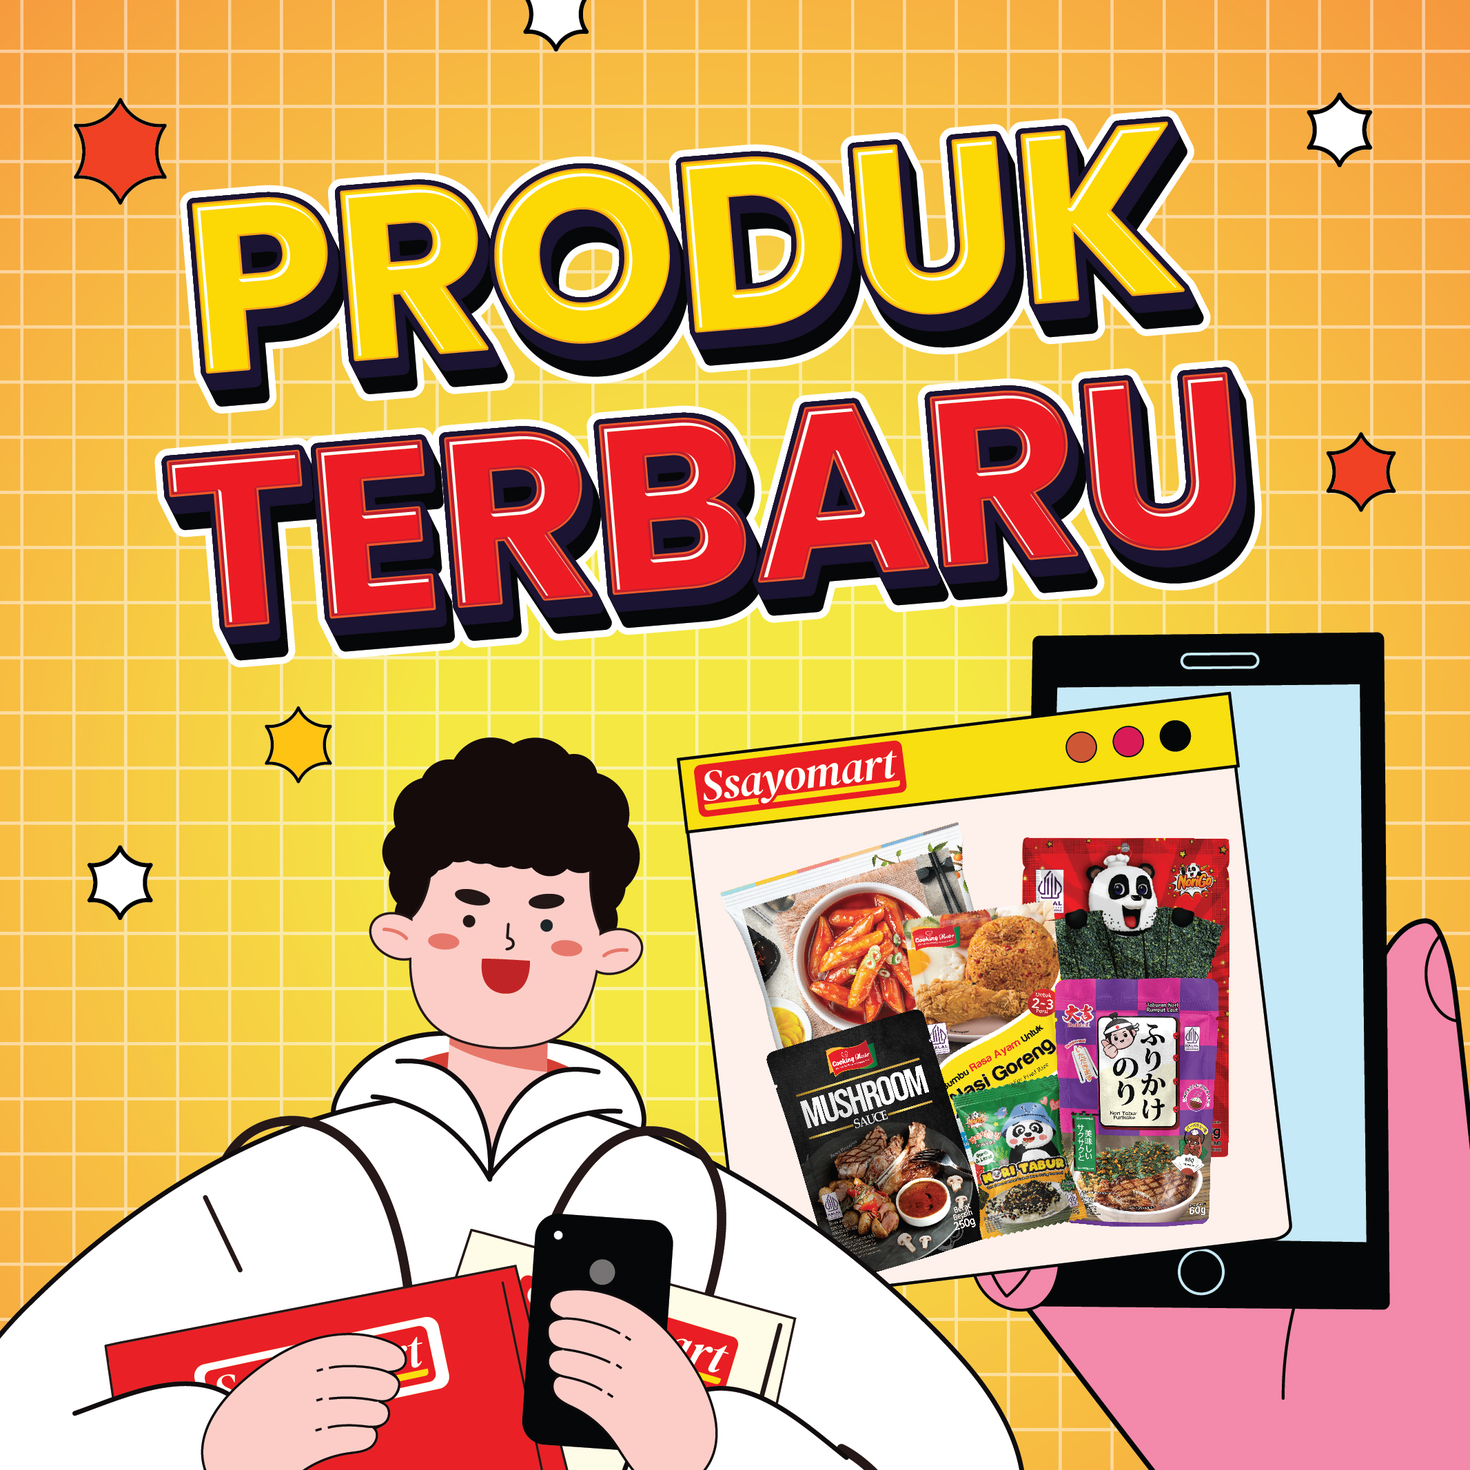
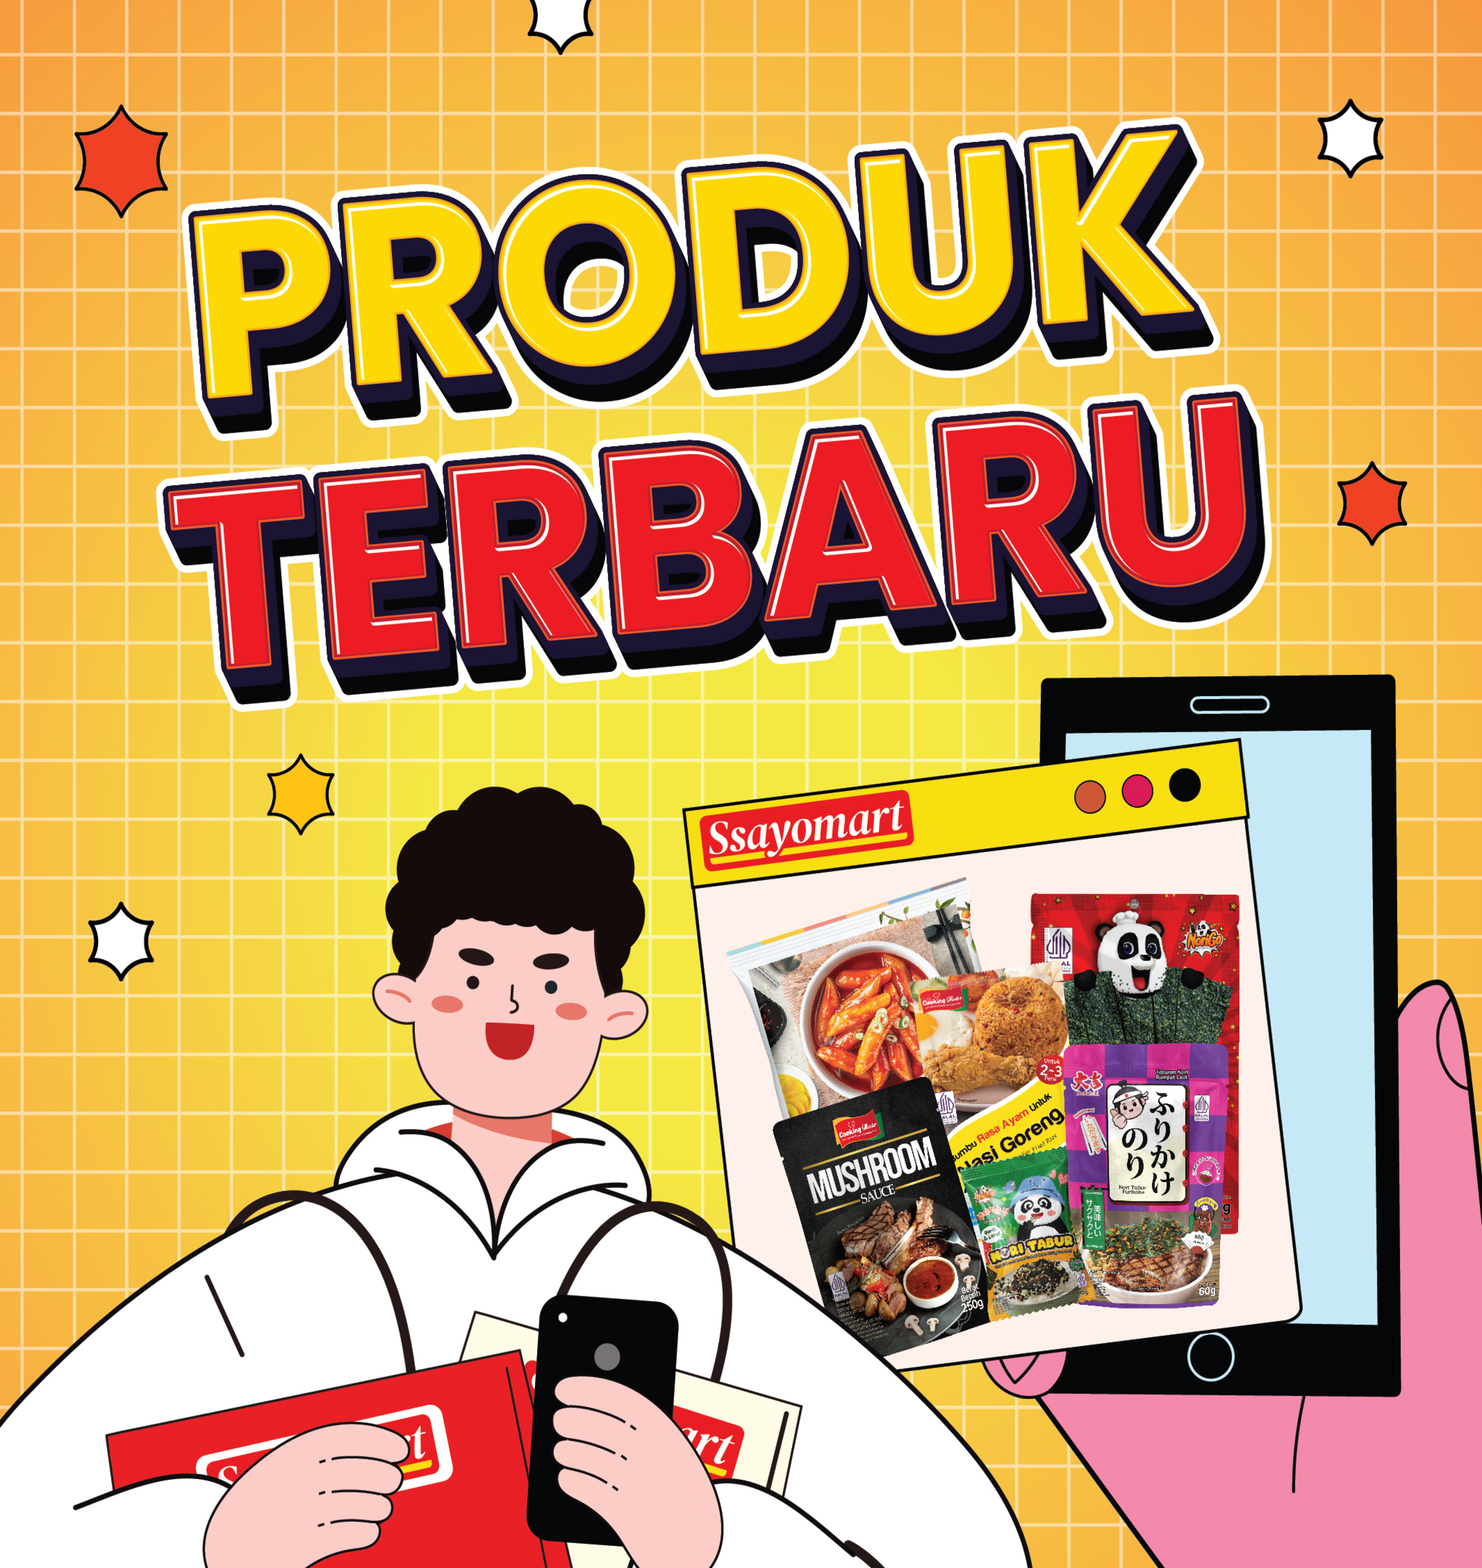
update baner spesial sayo ,tmbh produk,diskon deks

diff --git a/app/Views/dashboard/produk/tambahProduk.php b/app/Views/dashboard/produk/tambahProduk.php
@@ -8,195 +8,81 @@
     <b>MOHON TELITI KETIKA MENGISI PRODUK UNTUK MENGHINDARI KESALAHAN YANG TIDAK DIINGINKAN!!</b>
 </div>
 
-<div class="row">
-    <!-- Left Panel -->
-    <div class="col-md-6">
-        <div class="card border-0 shadow-sm position-relative">
-            <div class="card-header border-0 py-3">
-                <h6 class="m-0 font-weight-medium">Masukan Produk Baru</h6>
-            </div>
-            <div class="card-body">
-                <!-- code -->
-                <form action="<?= base_url(); ?>dashboard/produk/tambah-produk/save" onsubmit="return validasiTambahProduk()" method="post" enctype="multipart/form-data">
-                    <?= csrf_field(); ?>
-                    <div class="mb-3">
-                        <label for="nama" class="form-label">Nama Produk</label>
-                        <input type="text" class="form-control" id="nama" name="nama" placeholder="Nama Produk Anda..." value="<?= old('nama') ?>">
-                        <span id="produkError" class="text-danger"></span>
-                    </div>
-                    <div class="mb-3">
-                        <label for="sku" class="form-label">Stock Keeping Unit (SKU)</label>
-                        <input type="text" class="form-control" id="sku" name="sku" placeholder="SKU Produk Anda..." value="<?= old('sku') ?>" onkeypress="return isNumber(event);">
-                        <span id="skuError" class="text-danger"></span>
-                    </div>
-                    <div class="mb-3">
-                        <label for="deskripsi">Deskripsi Produk</label>
-                        <textarea class="form-control" id="deskripsi" name="deskripsi" placeholder="Deskripsi Produk Anda .." value="<?= old('deskripsi') ?>"></textarea>
-                        <span id="deskripsiError" class="text-danger"></span>
-                    </div>
-                    <div class="mb-3">
-                        <label for="parent_kategori_id">Kategori Induk</label>
-                        <select class="form-control" id="kategori" name="parent_kategori_id">
-                            <option value="">Pilih Kategori</option>
-                            <?php foreach ($kategori as $km) : ?>
-                                <option value="<?= $km['id_kategori']; ?>"><?= $km['nama_kategori']; ?></option>
-                            <?php endforeach; ?>
-                        </select>
-                        <span id="kategoriError" class="text-danger"></span>
-                    </div>
-                    <div class="mb-3">
-                        <label for="parent_kategori_id">Sub Kategori</label>
-                        <select class="form-control" id="sub_kategori" name="sub_kategori">
-                            <option value="">Pilih Kategori</option>
-                        </select>
-                        <span id="kategoriError" class="text-danger"></span>
-                    </div>
-                    <div class="mb-3">
-                        <label for="img" class="form-label">Gambar/Foto Produk</label>
-                        <input type="file" class="form-control" id="img" name="img" placeholder="Masukan Gambar Produk">
-                        <span id="imgError" class="text-danger"></span>
-                    </div>
-                    <div class="mb-3">
-                        <div class="row">
-                            <div class="col-md-6">
-                                <label for="selectVariant">Pilih Variant</label>
-                                <select class="form-control" name="selectVariant" id="selectVariant">
-                                    <option selected>Pilih</option>
-                                    <?php foreach ($variasi as $v) : ?>
-                                        <option value="<?= $v['id_variasi']; ?>"><?= $v['nama_varian']; ?></option>
-                                    <?php endforeach ?>
-                                </select>
-                            </div>
-                            <div class="col-md-6">
-                                <label for="valueVariant">Value Variant</label>
-                                <input type="text" id="valueItem" name="valueItem" class="form-control" placeholder="Value Varian">
-                            </div>
-                        </div>
-                    </div>
-
-                    <div class="mb-3">
-                        <label for="berat" class="form-label">Berat Produk (*Satuan Gram)</label>
-                        <input type="price" class="form-control" id="berat" name="berat" placeholder="Berat Produk Anda..." value="<?= old('berat') ?>" onkeypress="return isNumber(event);">
-                        <span id="beratError" class="text-danger"></span>
-                    </div>
-                    <div class="mb-3">
-                        <label for="harga" class="form-label">Harga Produk</label>
-                        <input type="price" class="form-control" id="harga" name="harga" placeholder="Harga Produk Anda..." value="<?= old('harga') ?>">
-                        <span id="hargaError" class="text-danger"></span>
-                    </div>
-                    <button type="submit" class="btn btn-danger">Simpan</button>
-                </form>
-            </div>
-        </div>
+<div class="card border-0 shadow-sm position-relative">
+    <div class="card-header border-0 py-3">
+        <h6 class="m-0 font-weight-medium">Masukan Produk Baru</h6>
     </div>
-
-    <!-- Right Panel -->
-    <div class="col-md-6 mb-3">
-        <div class="card position-relative border-0 shadow-sm">
-            <div class="card-header border-0 py-3">
-                <h6 class="m-0 font-weight-medium">List Produk</h6>
+    <div class="card-body">
+        <!-- code -->
+        <form action="<?= base_url(); ?>dashboard/produk/tambah-produk/save" onsubmit="return validasiTambahProduk()" method="post" enctype="multipart/form-data">
+            <?= csrf_field(); ?>
+            <div class="mb-3">
+                <label for="nama" class="form-label">Nama Produk</label>
+                <input type="text" class="form-control" id="nama" name="nama" placeholder="Nama Produk Anda..." value="<?= old('nama') ?>">
+                <span id="produkError" class="text-danger"></span>
             </div>
-            <div class="card-body">
-                <table class="table text-center table-responsive" id="example" width="100%" cellspacing="0">
-                    <thead>
-                        <tr>
-                            <th scope="col">No</th>
-                            <th scope="col">Gambar</th>
-                            <th scope="col">Nama Produk</th>
-                            <!-- <th scope="col">Tanggal EXP</th> -->
-                            <!-- <th scope="col">Ketegori</th> -->
-                            <th scope="col">Harga Produk</th>
-                            <th scope="col">Kategori Produk</th>
-                            <th scope="col">Variant</th>
-                            <!-- <th scope="col">Deskripsi</th> -->
-                            <th style="width: 100px;">Aksi</th>
-                        </tr>
-                    </thead>
-                    <?= $no = 1; ?>
-                    <tbody>
-                        <?php foreach ($produk_Model as $km) : ?>
-                            <tr>
-                                <td><?= $no++; ?></td>
-                                <td>
-                                    <img src="<?= base_url('assets/img/produk/main/' . $km['img']); ?>" class="img-fluid" alt="" width="50" height="50">
-                                </td>
-                                <td><?= $km['nama']; ?></td>
-                                <td><?= $km['harga']; ?></td>
-                                <td style="display: none;">1</td>
-                                <td>
-                                    <?php
-                                    $kategoriNama = '';
-                                    $subKategoriNama = '';
-                                    foreach ($kategori as $k) {
-                                        if ($k['id_kategori'] == $km['id_kategori']) {
-                                            $kategoriNama = $k['nama_kategori'];
-                                            if ($km['id_sub_kategori'] != null) {
-                                                foreach ($subKategori as $s) {
-                                                    if ($s['id_sub_kategori'] == $km['id_sub_kategori']) {
-                                                        $subKategoriNama = $s['nama_kategori'];
-                                                        break;
-                                                    }
-                                                }
-                                            }
-                                            break;
-                                        }
-                                    }
-                                    echo ($kategoriNama !== '') ? $kategoriNama . '<br>(' . $subKategoriNama . ')' : 'Kategori Tidak Ditemukan';
-                                    ?>
-                                </td>
-                                <td>
-
-                                    <?php
-                                    $previousVarian = null;
-                                    foreach ($variasiItem as $vi) : ?>
-                                        <?php
-                                        $i = 0;
-                                        if ($km['id_produk'] == $vi['id_produk']) {
-                                            if ($previousVarian !== $vi['nama_varian']) {
-                                                echo $vi['nama_varian'] . ' : ';
-                                                $previousVarian = $vi['nama_varian'];
-                                            }
-                                            echo '|' . $vi['value_item'] . '|';
-                                        }
-                                        ?>
-                                    <?php endforeach ?>
-                                </td>
-                                <td class="text-center">
-                                    <div class="nav-item dropdown no-arrow">
-                                        <a class="nav-link dropdown-toggle" href="#" role="button" data-toggle="dropdown" aria-haspopup="true" aria-expanded="false">
-                                            <i class="bi bi-three-dots-vertical"></i>
-                                        </a>
-                                        <!-- Dropdown - User Information -->
-                                        <div class="dropdown-menu shadow" aria-labelledby="userDropdown">
-                                            <a class="dropdown-item" href="<?= base_url() ?>produk/<?= $km['slug']; ?>">
-                                                <i class="bi bi-eye-fill fa-sm fa-fw mr-2 text-gray-400"></i>
-                                                Lihat Produk
-                                            </a>
-                                            <a class="dropdown-item" href="<?= base_url() ?>dashboard/produk/detail-varian/<?= $km['slug']; ?>">
-                                                <i class="bi bi-eye-fill fa-sm fa-fw mr-2 text-gray-400"></i>
-                                                Detail Varian
-                                            </a>
-                                            <a class="dropdown-item" href="<?= base_url(); ?>dashboard/produk/tambah-produk/update-produk/<?= $km['id_produk']; ?>">
-                                                <i class="bi bi-pen-fill fa-sm fa-fw mr-2 text-gray-400"></i>
-                                                Update
-                                            </a>
-                                            <div class="dropdown-divider"></div>
-                                            <form action="<?= base_url() ?>dashboard/produk/tambah-produk/delete-produk/<?= $km['id_produk']; ?>" method="post">
-                                                <?= csrf_field() ?>
-                                                <button type="submit" class="dropdown-item">
-                                                    <i class="bi bi-trash-fill fa-sm fa-fw mr-2 text-danger"></i>
-                                                    <span class="text-danger">Delete</span>
-                                                </button>
-                                            </form>
-                                        </div>
-                                    </div>
-                                </td>
-                            </tr>
-                    </tbody>
-                <?php endforeach; ?>
-                </table>
+            <div class="mb-3">
+                <label for="sku" class="form-label">Stock Keeping Unit (SKU)</label>
+                <input type="text" class="form-control" id="sku" name="sku" placeholder="SKU Produk Anda..." value="<?= old('sku') ?>" onkeypress="return isNumber(event);">
+                <span id="skuError" class="text-danger"></span>
             </div>
-        </div>
+            <div class="mb-3">
+                <label for="deskripsi">Deskripsi Produk</label>
+                <textarea class="form-control" id="deskripsi" name="deskripsi" placeholder="Deskripsi Produk Anda .." value="<?= old('deskripsi') ?>"></textarea>
+                <span id="deskripsiError" class="text-danger"></span>
+            </div>
+            <div class="mb-3">
+                <label for="parent_kategori_id">Kategori Induk</label>
+                <select class="form-control" id="kategori" name="parent_kategori_id">
+                    <option value="">Pilih Kategori</option>
+                    <?php foreach ($kategori as $km) : ?>
+                        <option value="<?= $km['id_kategori']; ?>"><?= $km['nama_kategori']; ?></option>
+                    <?php endforeach; ?>
+                </select>
+                <span id="kategoriError" class="text-danger"></span>
+            </div>
+            <div class="mb-3">
+                <label for="parent_kategori_id">Sub Kategori</label>
+                <select class="form-control" id="sub_kategori" name="sub_kategori">
+                    <option value="">Pilih Kategori</option>
+                </select>
+                <span id="kategoriError" class="text-danger"></span>
+            </div>
+            <div class="mb-3">
+                <label for="img" class="form-label">Gambar/Foto Produk</label>
+                <input type="file" class="form-control" id="img" name="img" placeholder="Masukan Gambar Produk">
+                <span id="imgError" class="text-danger"></span>
+            </div>
+            <div class="mb-3">
+                <div class="row">
+                    <div class="col-md-6">
+                        <label for="selectVariant">Pilih Variant</label>
+                        <select class="form-control" name="selectVariant" id="selectVariant">
+                            <option selected>Pilih</option>
+                            <?php foreach ($variasi as $v) : ?>
+                                <option value="<?= $v['id_variasi']; ?>"><?= $v['nama_varian']; ?></option>
+                            <?php endforeach ?>
+                        </select>
+                    </div>
+                    <div class="col-md-6">
+                        <label for="valueVariant">Value Variant</label>
+                        <input type="text" id="valueItem" name="valueItem" class="form-control" placeholder="Value Varian">
+                    </div>
+                </div>
+            </div>
+
+            <div class="mb-3">
+                <label for="berat" class="form-label">Berat Produk (*Satuan Gram)</label>
+                <input type="price" class="form-control" id="berat" name="berat" placeholder="Berat Produk Anda..." value="<?= old('berat') ?>" onkeypress="return isNumber(event);">
+                <span id="beratError" class="text-danger"></span>
+            </div>
+            <div class="mb-3">
+                <label for="harga" class="form-label">Harga Produk</label>
+                <input type="price" class="form-control" id="harga" name="harga" placeholder="Harga Produk Anda..." value="<?= old('harga') ?>">
+                <span id="hargaError" class="text-danger"></span>
+            </div>
+            <button type="submit" class="btn btn-danger">Simpan</button>
+        </form>
     </div>
 </div>
 

diff --git a/app/Views/user/promo/promo.php b/app/Views/user/promo/promo.php
@@ -1,27 +1,78 @@
 <?= $this->extend('user/produk/layout') ?>
 <?= $this->section('page-content') ?>
 
+<?php
+// Mendeteksi User-Agent
+$userAgent = $_SERVER['HTTP_USER_AGENT'];
+// Menentukan apakah pengguna menggunakan perangkat seluler (misalnya, smartphone atau tablet)
+$isMobile = (strpos($userAgent, 'Mobile') !== false || strpos($userAgent, 'Tablet') !== false);
+?>
+
+
 <!-- Navbar -->
 <?= $this->include('user/home/component/navbarMain') ?>
 <!-- Button Kategori -->
-<section class="mt-2">
-    <div class="container">
-        <div class="row text-center">
-            <div class="col">
-                <div class="swiper button-swiper">
-                    <div class="swiper-wrapper">
-                        <?php foreach ($kategori_promo as $k) : ?>
-                            <div class="swiper-slide">
-                                <a href="<?= base_url('promo/' . $k['slug']); ?>" class="btn border-0 btn-custom-rounded">
-                                    <?= $k['title']; ?>
-                                </a>
+<!-- mobile -->
+<?php if ($isMobile) : ?>
+    <div id="mobileContent">
+        <section class="mt-2 ">
+            <div class="container d-md-none">
+                <div class="row text-center">
+                    <div class="col">
+                        <div class="swiper button-swiper">
+                            <div class="swiper-wrapper">
+                                <?php foreach ($kategori_promo as $k) : ?>
+                                    <div class="swiper-slide">
+                                        <a href="<?= base_url('promo/' . $k['slug']); ?>" class="btn border-0 btn-custom-rounded">
+                                            <?= $k['title']; ?>
+                                        </a>
+                                    </div>
+                                <?php endforeach; ?>
                             </div>
-                        <?php endforeach; ?>
+                        </div>
                     </div>
                 </div>
             </div>
-        </div>
-    </div>
-</section>
-<?= $this->include('user/produk/component/card') ?>
-<?= $this->endSection(); ?>
+        </section>
+    <?php else : ?>
+        <!-- end mobile -->
+        <!-- desktoop -->
+        <div id="desktopContent" style="margin-top:100px;">
+            <section class="py-2">
+                <div class="container d-none d-md-block">
+                    <div class="row text-center">
+                        <div class="col">
+                            <div class="swiper button-swiper">
+                                <div class="swiper-wrapper">
+                                    <?php foreach ($kategori_promo as $k) : ?>
+                                        <div class="swiper-slide">
+                                            <a href="<?= base_url('promo/' . $k['slug']); ?>" class="btn border-0 btn-custom-rounded">
+                                                <?= $k['title']; ?>
+                                            </a>
+                                        </div>
+                                    <?php endforeach; ?>
+                                </div>
+                            </div>
+                        </div>
+                    </div>
+                </div>
+            </section>
+        <?php endif; ?>
+        <!-- end Desktop -->
+
+        <?php
+        if ($isMobile) {
+
+            echo '<div id="mobileContent">';
+
+            echo '</div>';
+        } else {
+
+            echo '<div id="desktopContent">';
+
+            echo '</div>';
+        }
+        ?>
+        <!-- desktop -->
+        <?= $this->include('user/produk/component/card') ?>
+        <?= $this->endSection(); ?>
